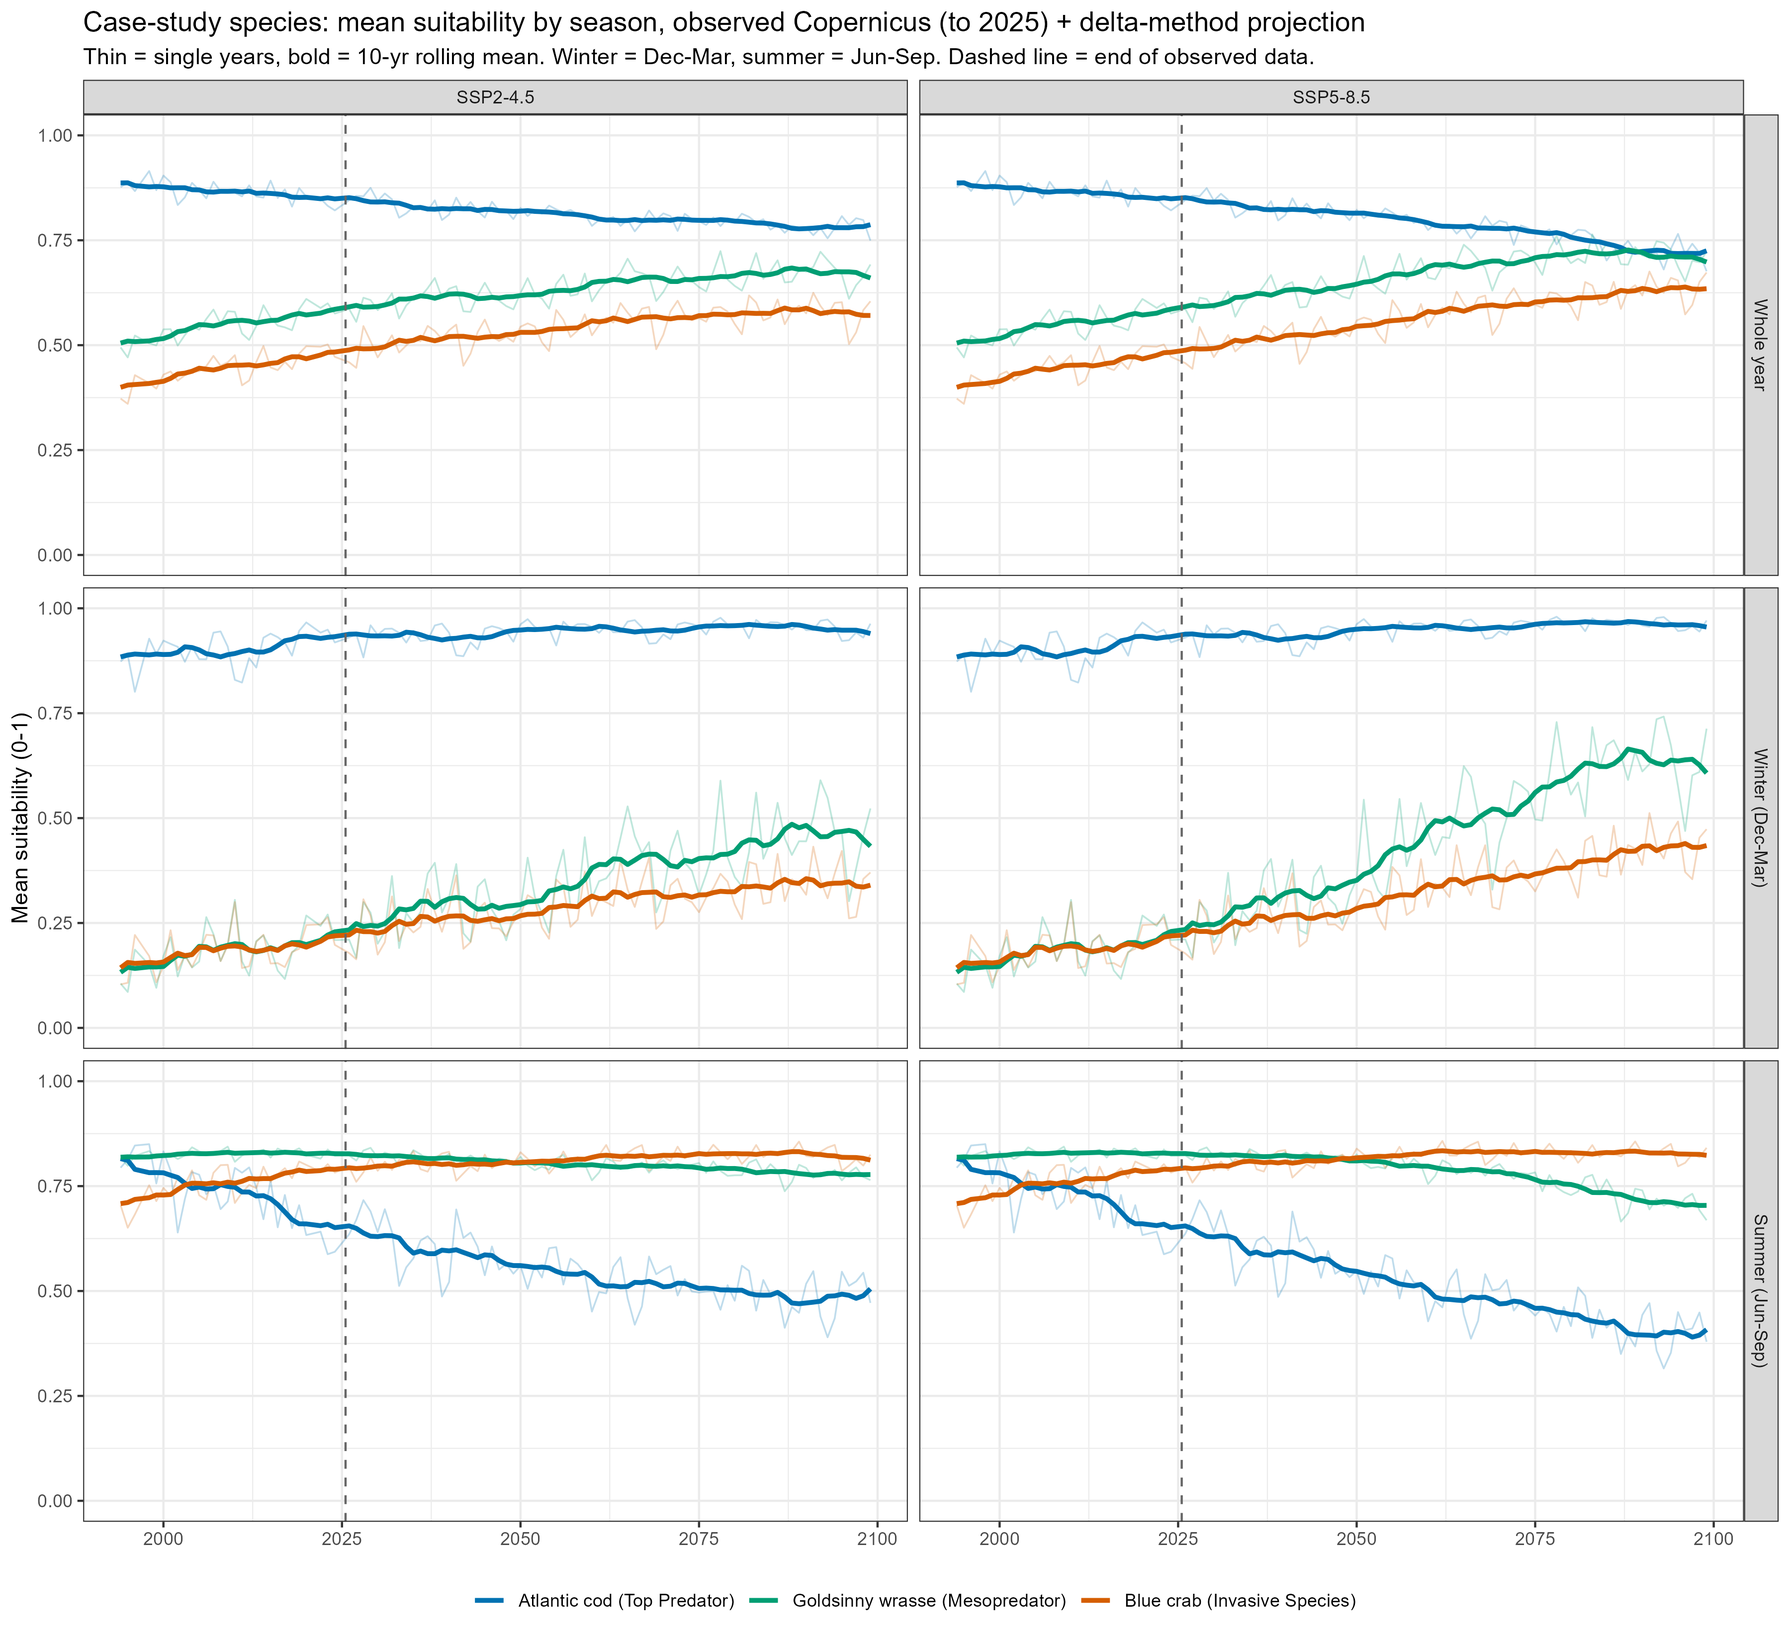
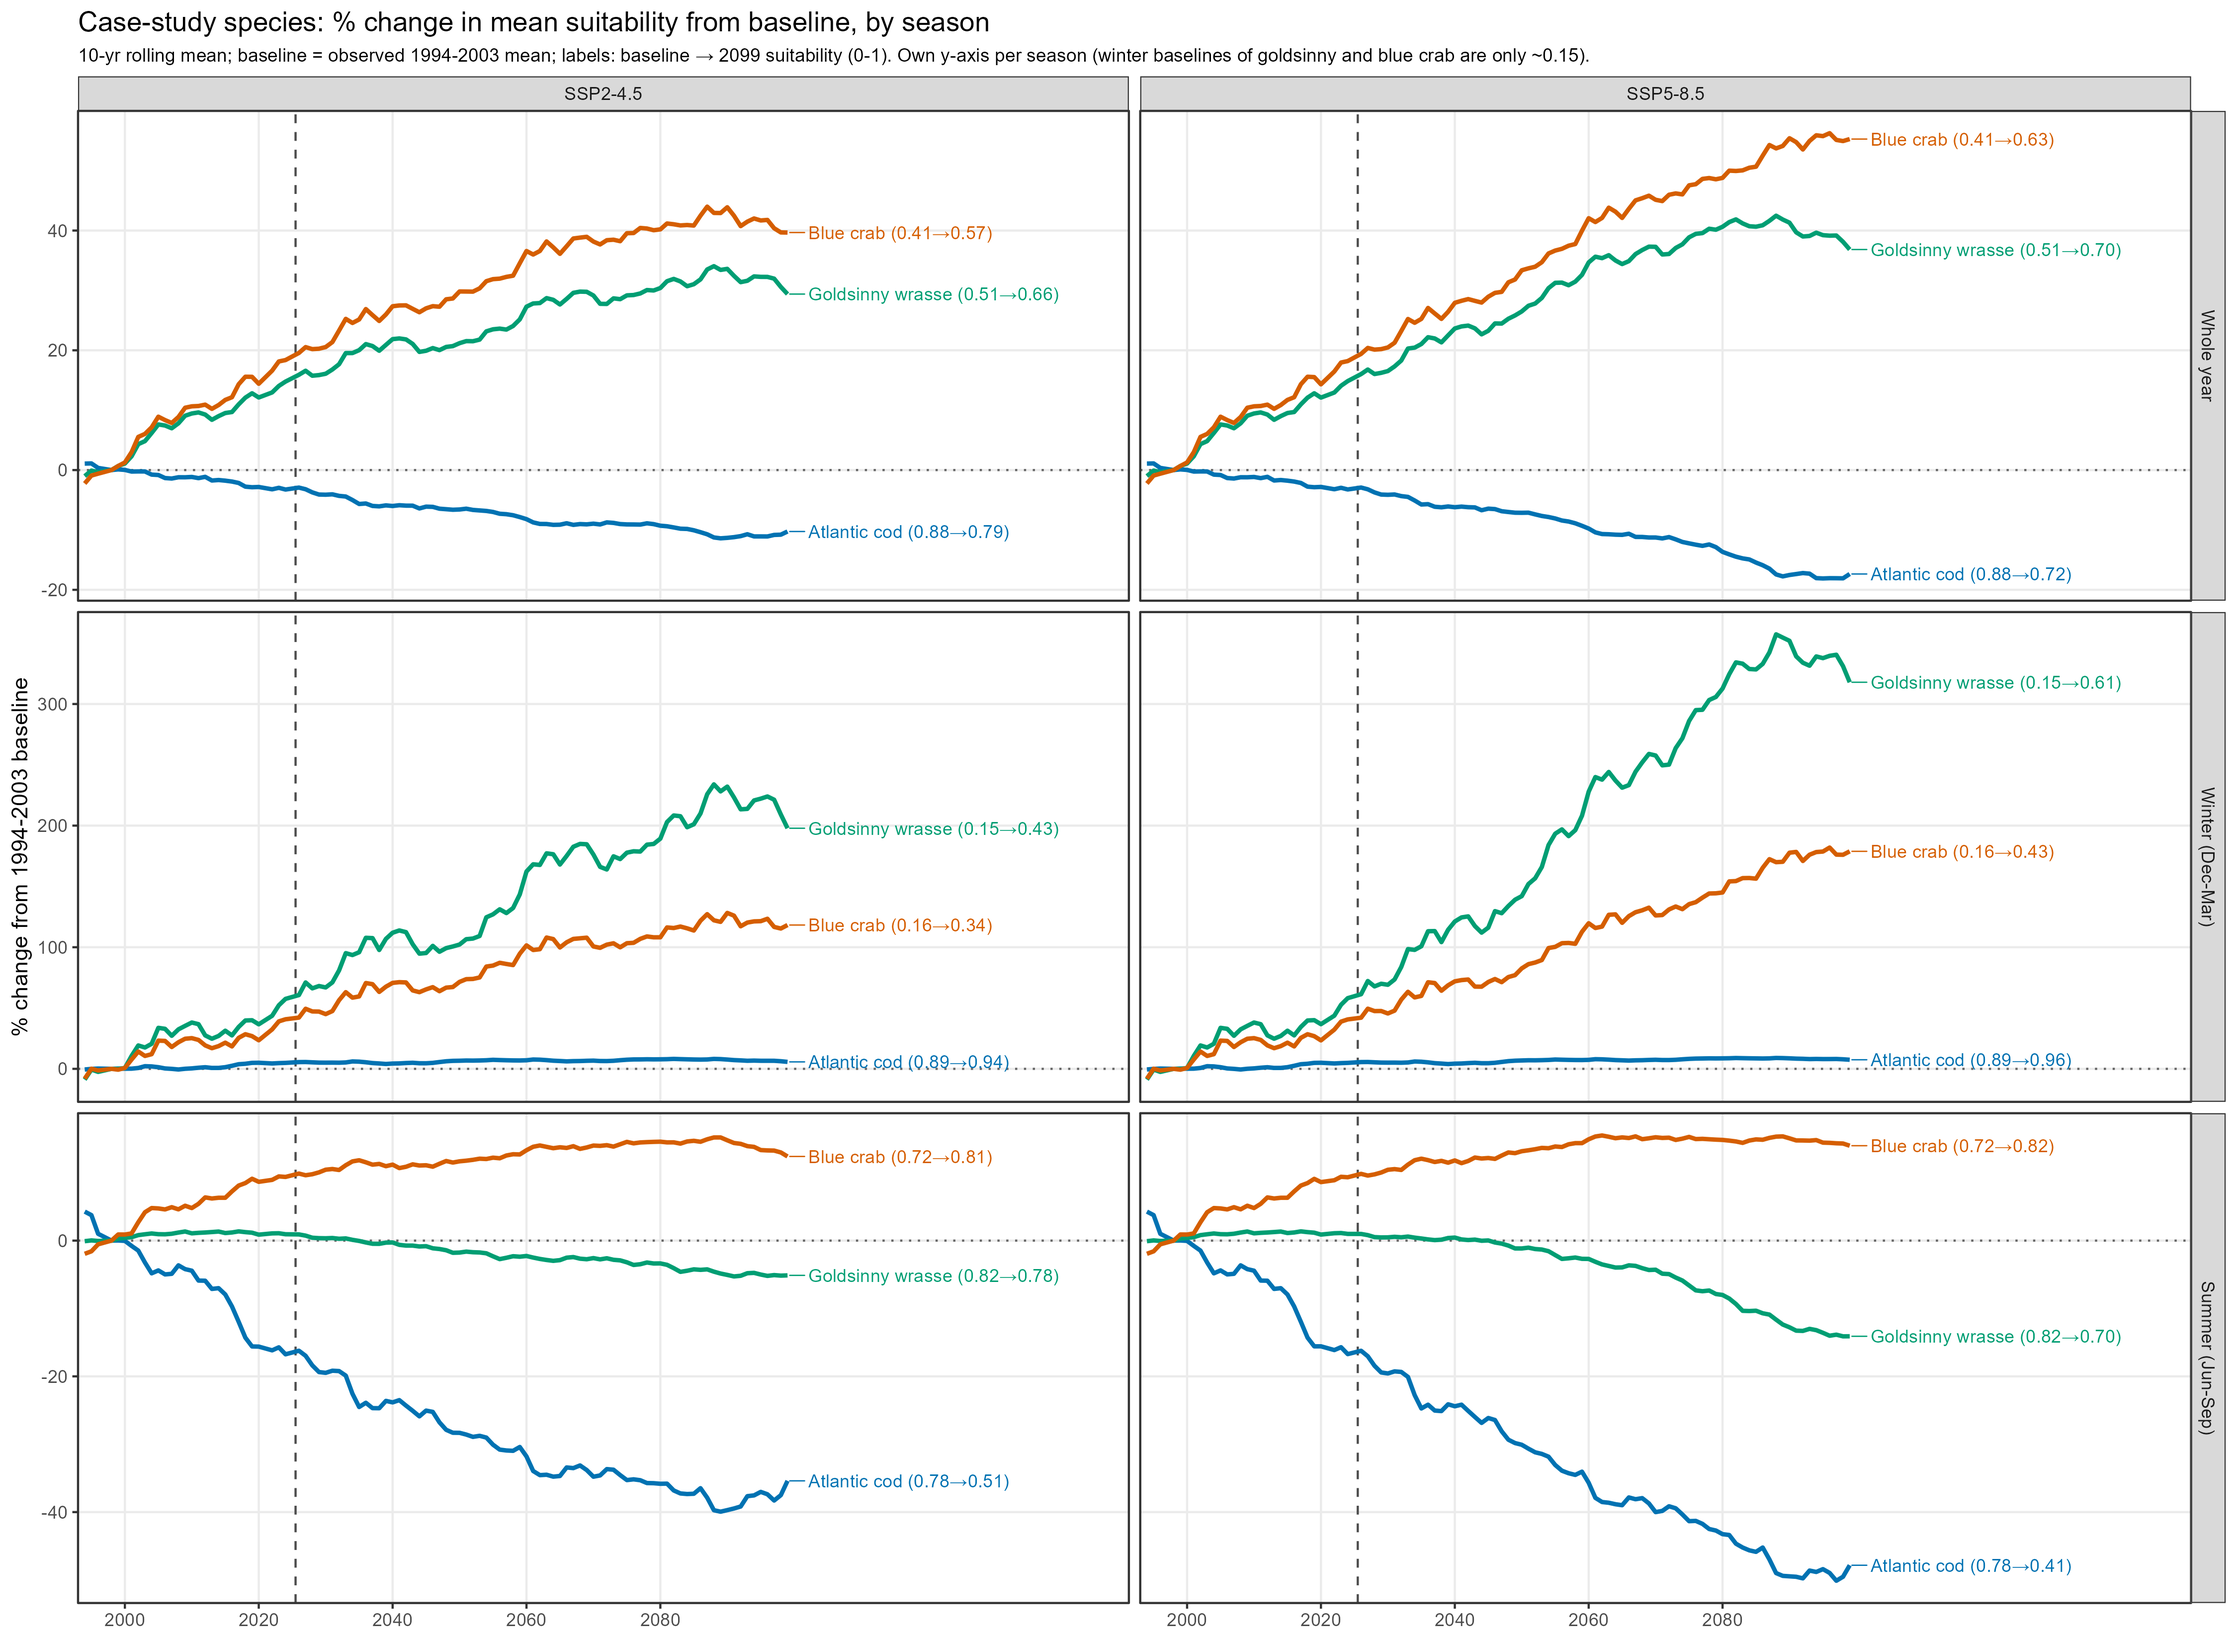
Case-study seasonal plot as % change from baseline

diff --git a/index.html b/index.html
@@ -32,8 +32,8 @@
       <p class="caption">Role-average mean suitability by season.</p>
       <img class="result-img" src="assets/summary/role_season_timeseries.png?v=1" alt="Role-average suitability by season, 1994-2099">
       <p class="caption">Case-study species (Atlantic cod, goldsinny wrasse, blue crab): mean suitability by season.
-      Cod loses mainly in summer, while its winter is already near optimal; goldsinny and blue crab gain mainly in winter.</p>
-      <img class="result-img" src="assets/summary/case_study_season_timeseries.png?v=1" alt="Case-study species suitability by season, 1994-2099">
+      % change from the observed 1994-2003 baseline (own y-axis per season). Cod loses mainly in summer, while its winter is already near optimal; goldsinny and blue crab gain mainly in winter.</p>
+      <img class="result-img" src="assets/summary/case_study_season_timeseries.png?v=2" alt="Case-study species suitability by season, 1994-2099">
       <p class="caption">Per species: change in winter (x) versus summer (y) suitability, observed 1994-2022 to 2080-2099.
       Most species sit in the lower right: they gain in winter but lose in summer.</p>
       <div class="side-by-side">
